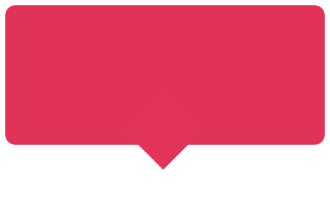
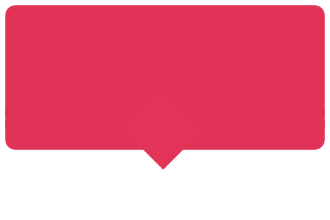
Fixed credit bubble

Changed region(s): [[0.5455, 0.6273, 1.0, 0.6818], [0.0, 0.6273, 0.4545, 0.6818]]

diff --git a/css/styles.css b/css/styles.css
@@ -829,6 +829,30 @@ tr {
 	color:red;
 }
 
+#about_pane {
+	background-image:url('../images/bubble.png');
+	background-repeat:no-repeat;
+	width:305px;
+	height:142px;
+	color:#fff;
+	/*background-color:#e33258;
+	border-radius:10px;*/
+	padding:18px;
+	position:absolute;
+	right:250px;
+	margin-top:-165px;
+	display:none;
+	z-index:9999;
+}
+
+#about_pane div img {
+	padding:0;
+	margin:0;
+	margin-right:10px;
+	border:0;
+	float:right;
+}
+
 #colophon {
 	display:block;
 	margin:0 auto;
@@ -865,26 +889,3 @@ tr {
 #colophon{color:#666;padding:40px 0;font-size:.875em;line-height:1.285;background:#e33258;width:100%;margin:1em 0 0}#colophon .row{width:1020px;margin:0 auto;zoom:1;zoom:1}#colophon .row:after{display:block;visibility:hidden;height:0;clear:both;content:".
 "}#colophon .row:after{display:block;visibility:hidden;height:0;clear:both;content:".
 "}
-
-#about_pane {
-	background-image:url(../images/bubble.png);
-	background-repeat:no-repeat;
-	width:305px;
-	height:142px;
-	color:#fff;
-	/*background-color:#e33258;
-	border-radius:10px;*/
-	padding:18px;
-	position:absolute;
-	right:250px;
-	margin-top:-165px;
-	display:none;
-}
-
-#about_pane div img {
-	padding:0;
-	margin:0;
-	margin-right:10px;
-	border:0;
-	float:right;
-}
